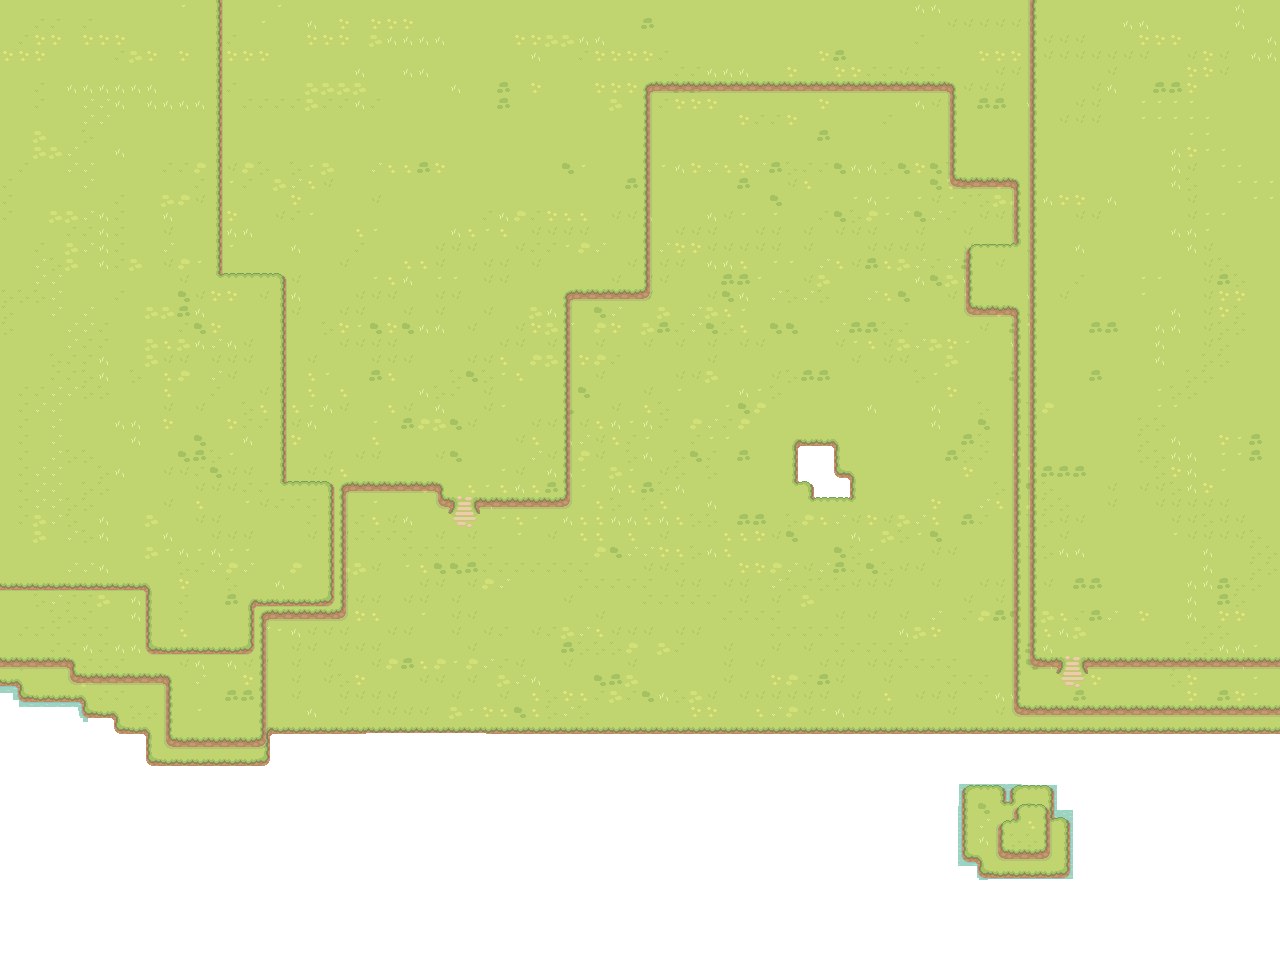
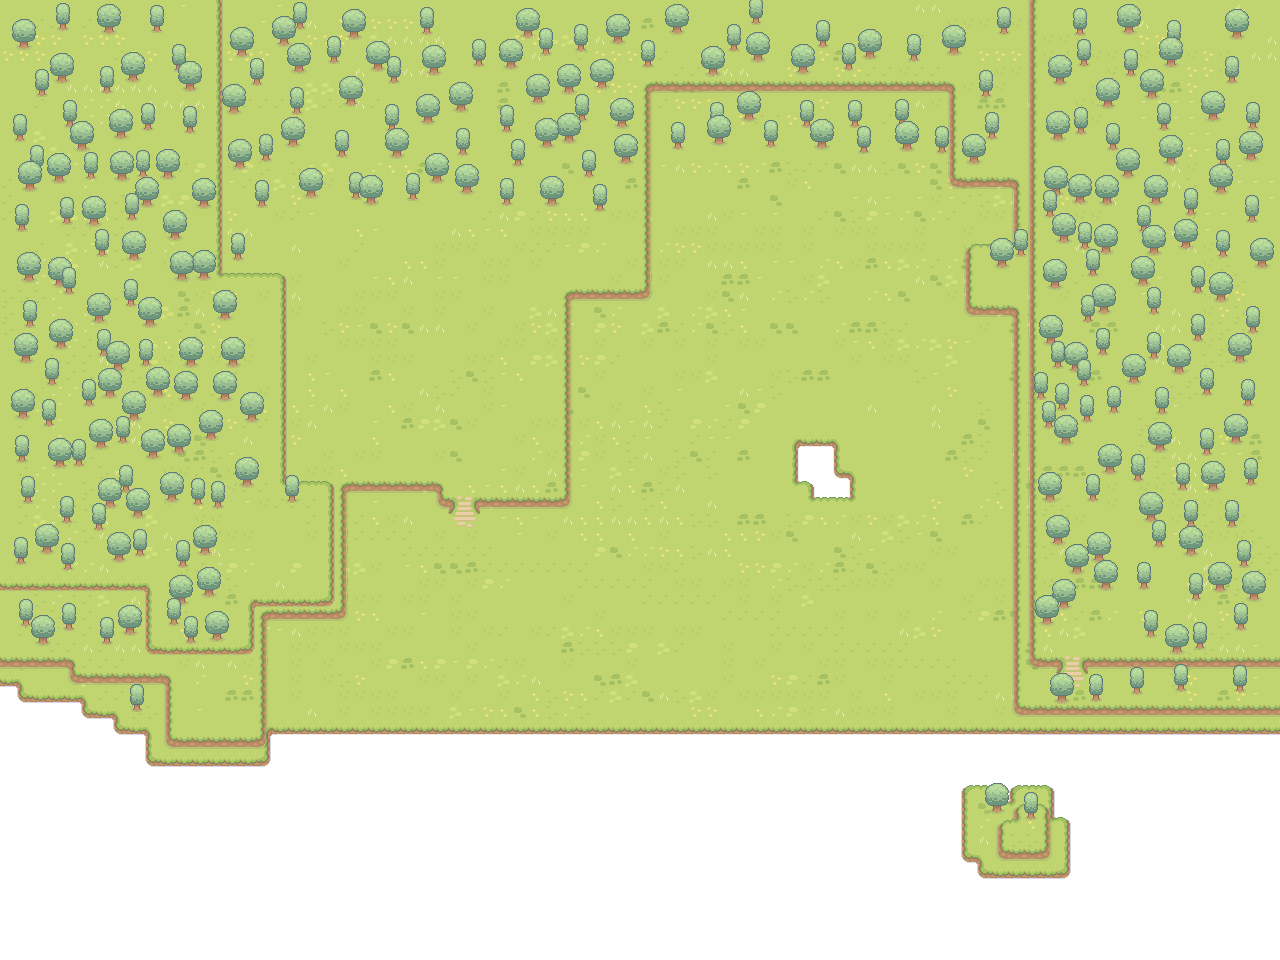
Updating Farm.png to add trees outside boundary to pic. Trees wont be loaded in farm.tmx

diff --git a/code/overlay.py b/code/overlay.py
@@ -1,28 +1,29 @@
 import pygame
 from settings import *
 
+
 class Overlay:
-    def __init__(self,player):
+    def __init__(self, player):
         self._DisplaySurface = pygame.display.get_surface()
         self._Player = player
         OverlayPath = '../textures/ui/'
 
         self._font = pygame.font.Font('../font/joystixmonospace.otf', 18)
 
-        self._ToolsOverlay = {tool:pygame.image.load(f'{OverlayPath}{tool}.png').convert_alpha() for tool in player._Tools}
-        self._SeedsOverlay = {seed:pygame.image.load(f'{OverlayPath}{seed}.png').convert_alpha() for seed in player._Seeds}
+        self._ToolsOverlay = {tool: pygame.image.load(f'{OverlayPath}{tool}.png').convert_alpha() for tool in player._Tools}
+        self._SeedsOverlay = {seed: pygame.image.load(f'{OverlayPath}{seed}.png').convert_alpha() for seed in player._Seeds}
 
     def display_tools(self):
         pygame.draw.rect(self._DisplaySurface, (255, 255, 255, 0), pygame.Rect(5, ScreenHeight-80, 200, 70), border_radius=20)
         
         for (i, tool) in enumerate(self._Player._Tools):
-            self._DisplaySurface.blit(pygame.transform.scale(self._ToolsOverlay[tool],(48,48)), (20 + 60*i, ScreenHeight-70))
+            self._DisplaySurface.blit(pygame.transform.scale(self._ToolsOverlay[tool], (48, 48)), (20 + 60*i, ScreenHeight-70))
             if tool == self._Player._SelectedTool:
                 pygame.draw.rect(self._DisplaySurface, (255, 0, 0), pygame.Rect(15 + 60*i, ScreenHeight-75, 58, 58), width=2, border_radius=10)
 
     def display_seed(self):
         pygame.draw.rect(self._DisplaySurface, (255, 255, 255, 0), pygame.Rect(ScreenWidth-80, ScreenHeight-80, 70, 70), border_radius=20)
-        self._DisplaySurface.blit(pygame.transform.scale(self._SeedsOverlay[self._Player._SelectedSeed],(48,48)), (ScreenWidth-75, ScreenHeight-65))
+        self._DisplaySurface.blit(pygame.transform.scale(self._SeedsOverlay[self._Player._SelectedSeed], (48, 48)), (ScreenWidth-75, ScreenHeight-65))
 
     def display_health(self):
         self._DisplaySurface.blit(self._font.render("Health: ", False, "Black"), (25, 25))

diff --git a/code/world.py b/code/world.py
@@ -40,7 +40,7 @@ class Level:
         self._Transition = Transition(self.reset, self._Player)
         self._Sky = Sky()
         self.rain = Rain(self._AllSprites)
-        self.raining = True  # rains if randint higher than x
+        self.raining = randint(0, 28) > 20  # rains if randint higher than x
         self._SoilLayer.raining = self.raining
         
         self._heading_font = pygame.font.Font('../font/joystixmonospace.otf', 45)
@@ -82,7 +82,8 @@ class Level:
         self._SoilLayer.dry_soil_tiles()
         if self._Location == 'farm':
             for sprite in self._AllSprites:
-                sprite.kill()
+                if sprite not in self._Player._TreeSprites:
+                    sprite.kill()
             print("Current Location: ", self._Location)
 
             # Fence
@@ -134,7 +135,8 @@ class Level:
         # Loading House
         elif self._Location == 'house':
             for sprite in self._AllSprites:
-                sprite.kill()
+                if sprite not in self._Player._TreeSprites:
+                    sprite.kill()
             self._Position = (263, 150)  # set position in-front of door when house loaded
             print("Current Location: ", self._Location)
             for x, y, surface in self.tmx_house_data.get_layer_by_name('Floor').tiles():
@@ -254,6 +256,10 @@ class Level:
             # overlay/ui
             self._Overlay.Display()
 
+            # Sleep/day reset
+            if self._Player._Sleep:
+                self._Transition.play(self._Player)
+
         # Pause Menu
         else:
 
@@ -276,9 +282,7 @@ class Level:
             self._DisplaySurface.blit(self._text_return, self._text_rect_return)
             self._DisplaySurface.blit(self._text_quit, self._text_rect_quit)
 
-            # Sleep/day reset
-        if self._Player._Sleep:
-            self._Transition.play(self._Player)
+
 
     def save(self):
         print("returning: ", self._Location)
